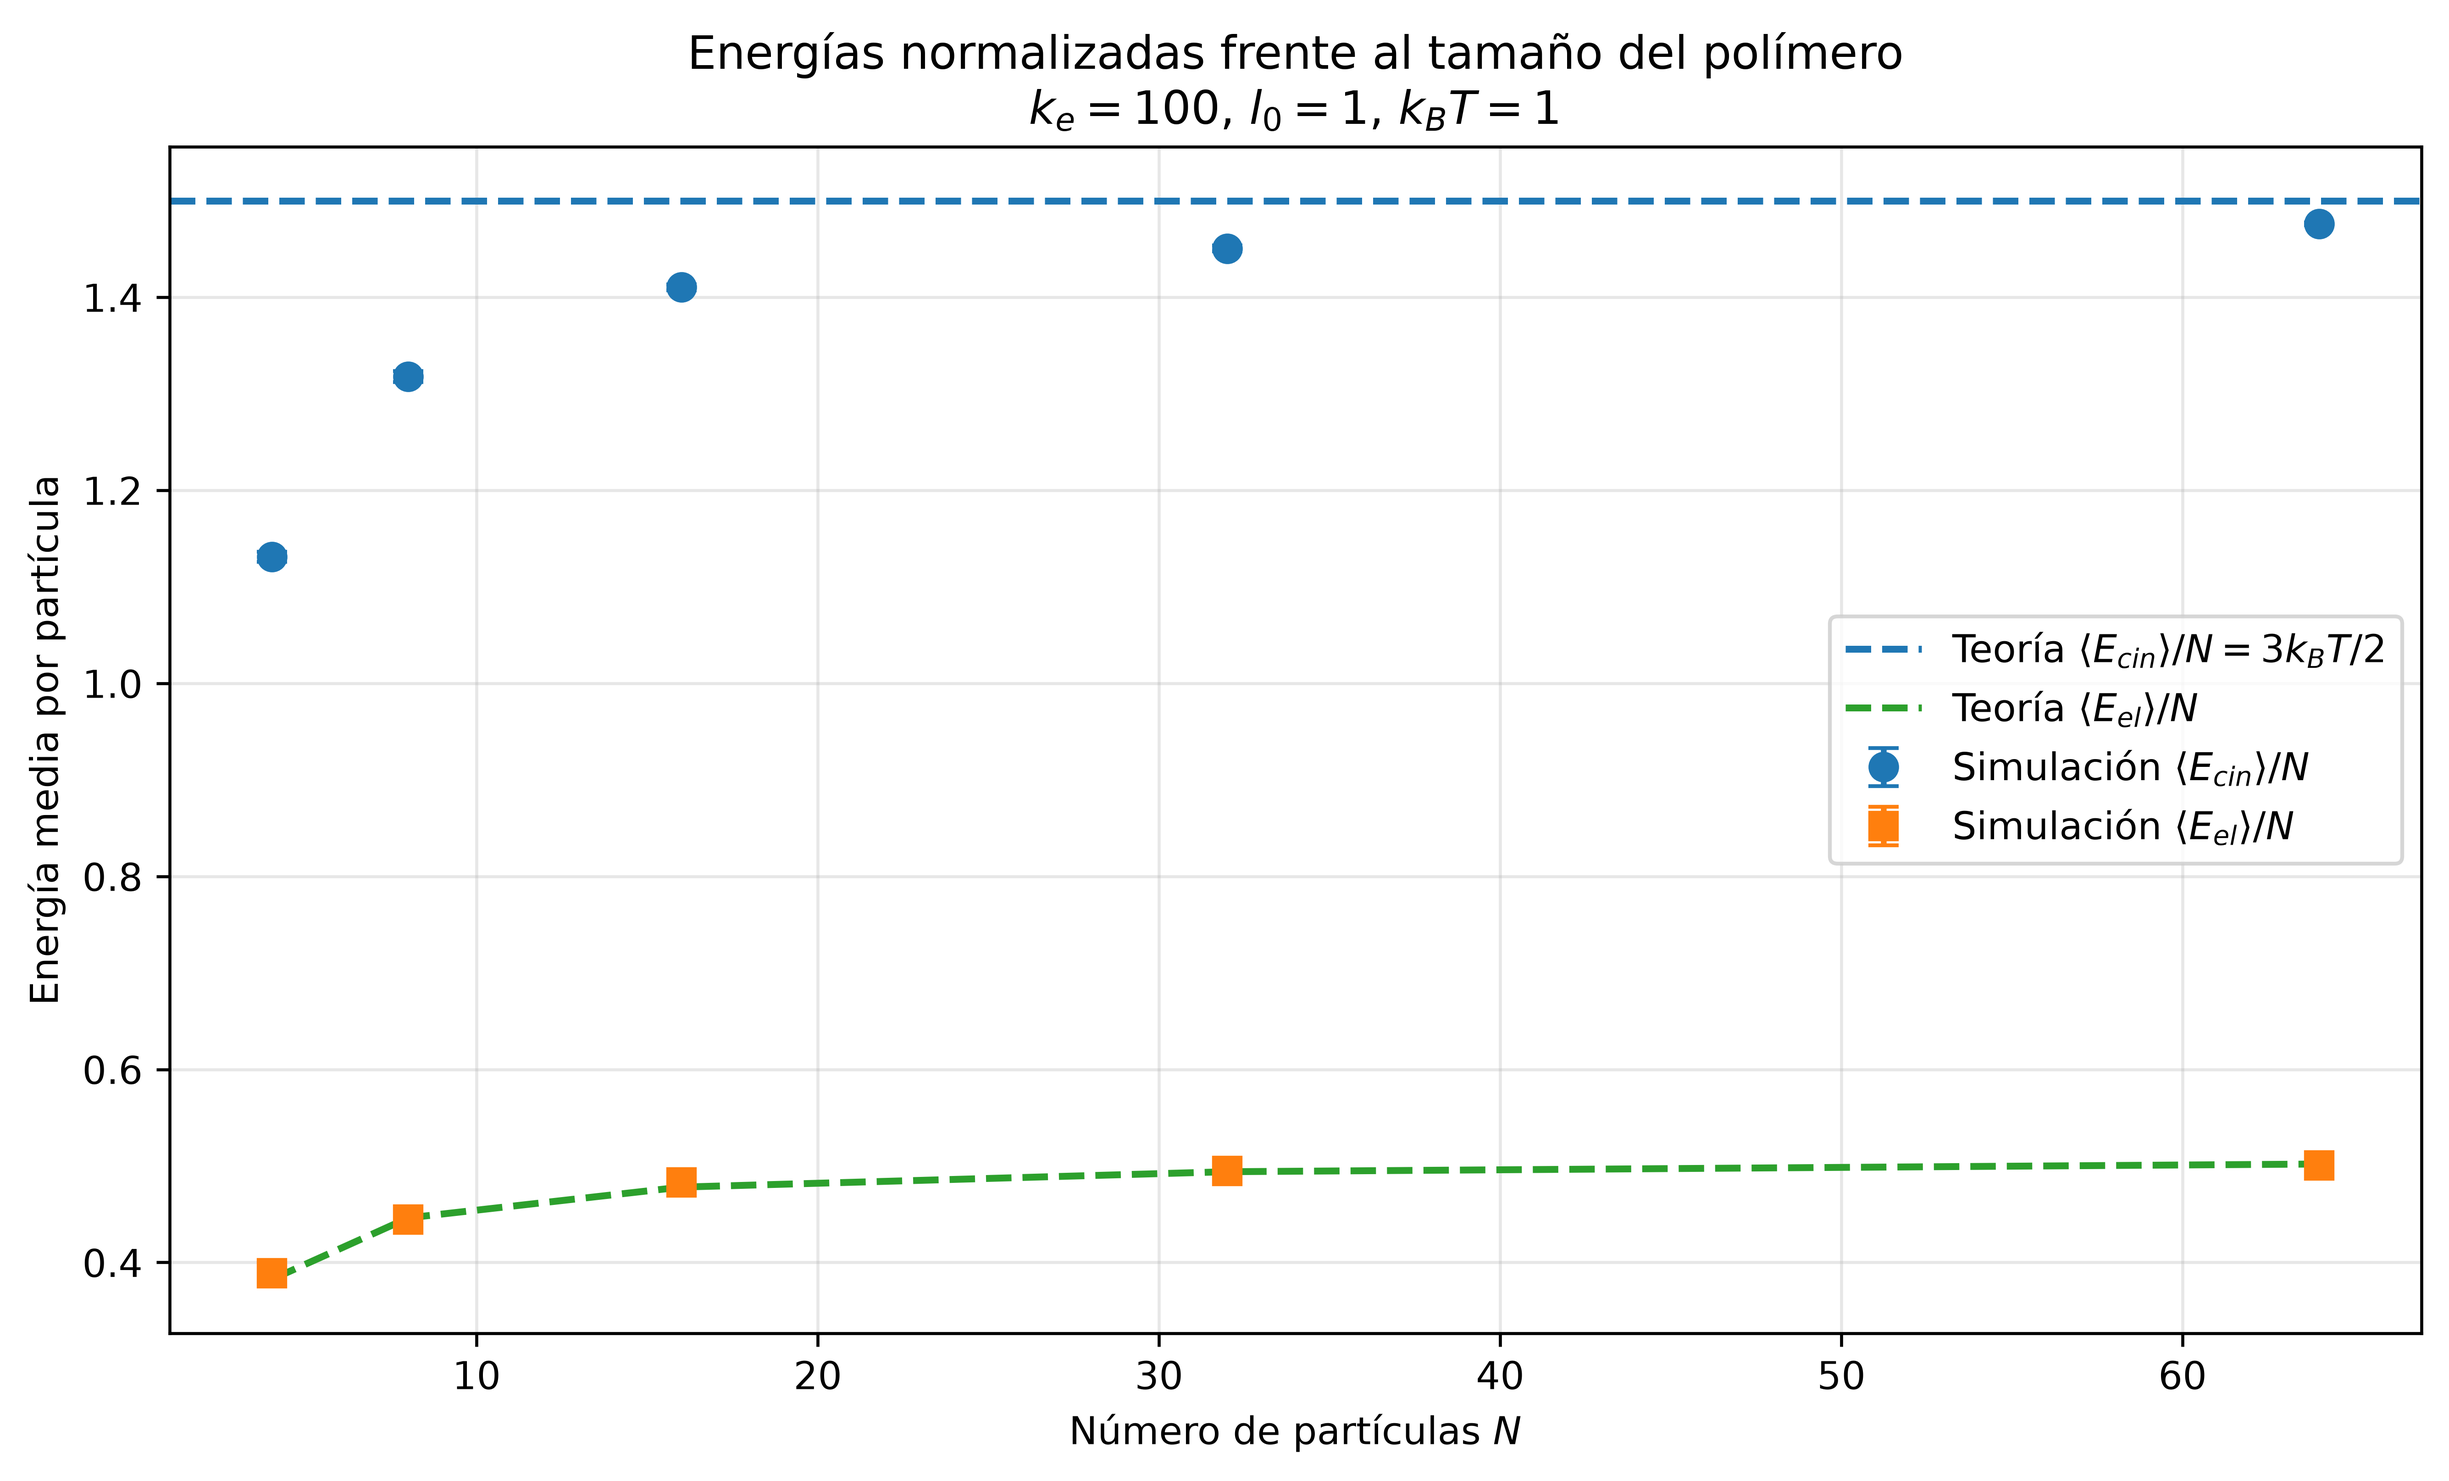
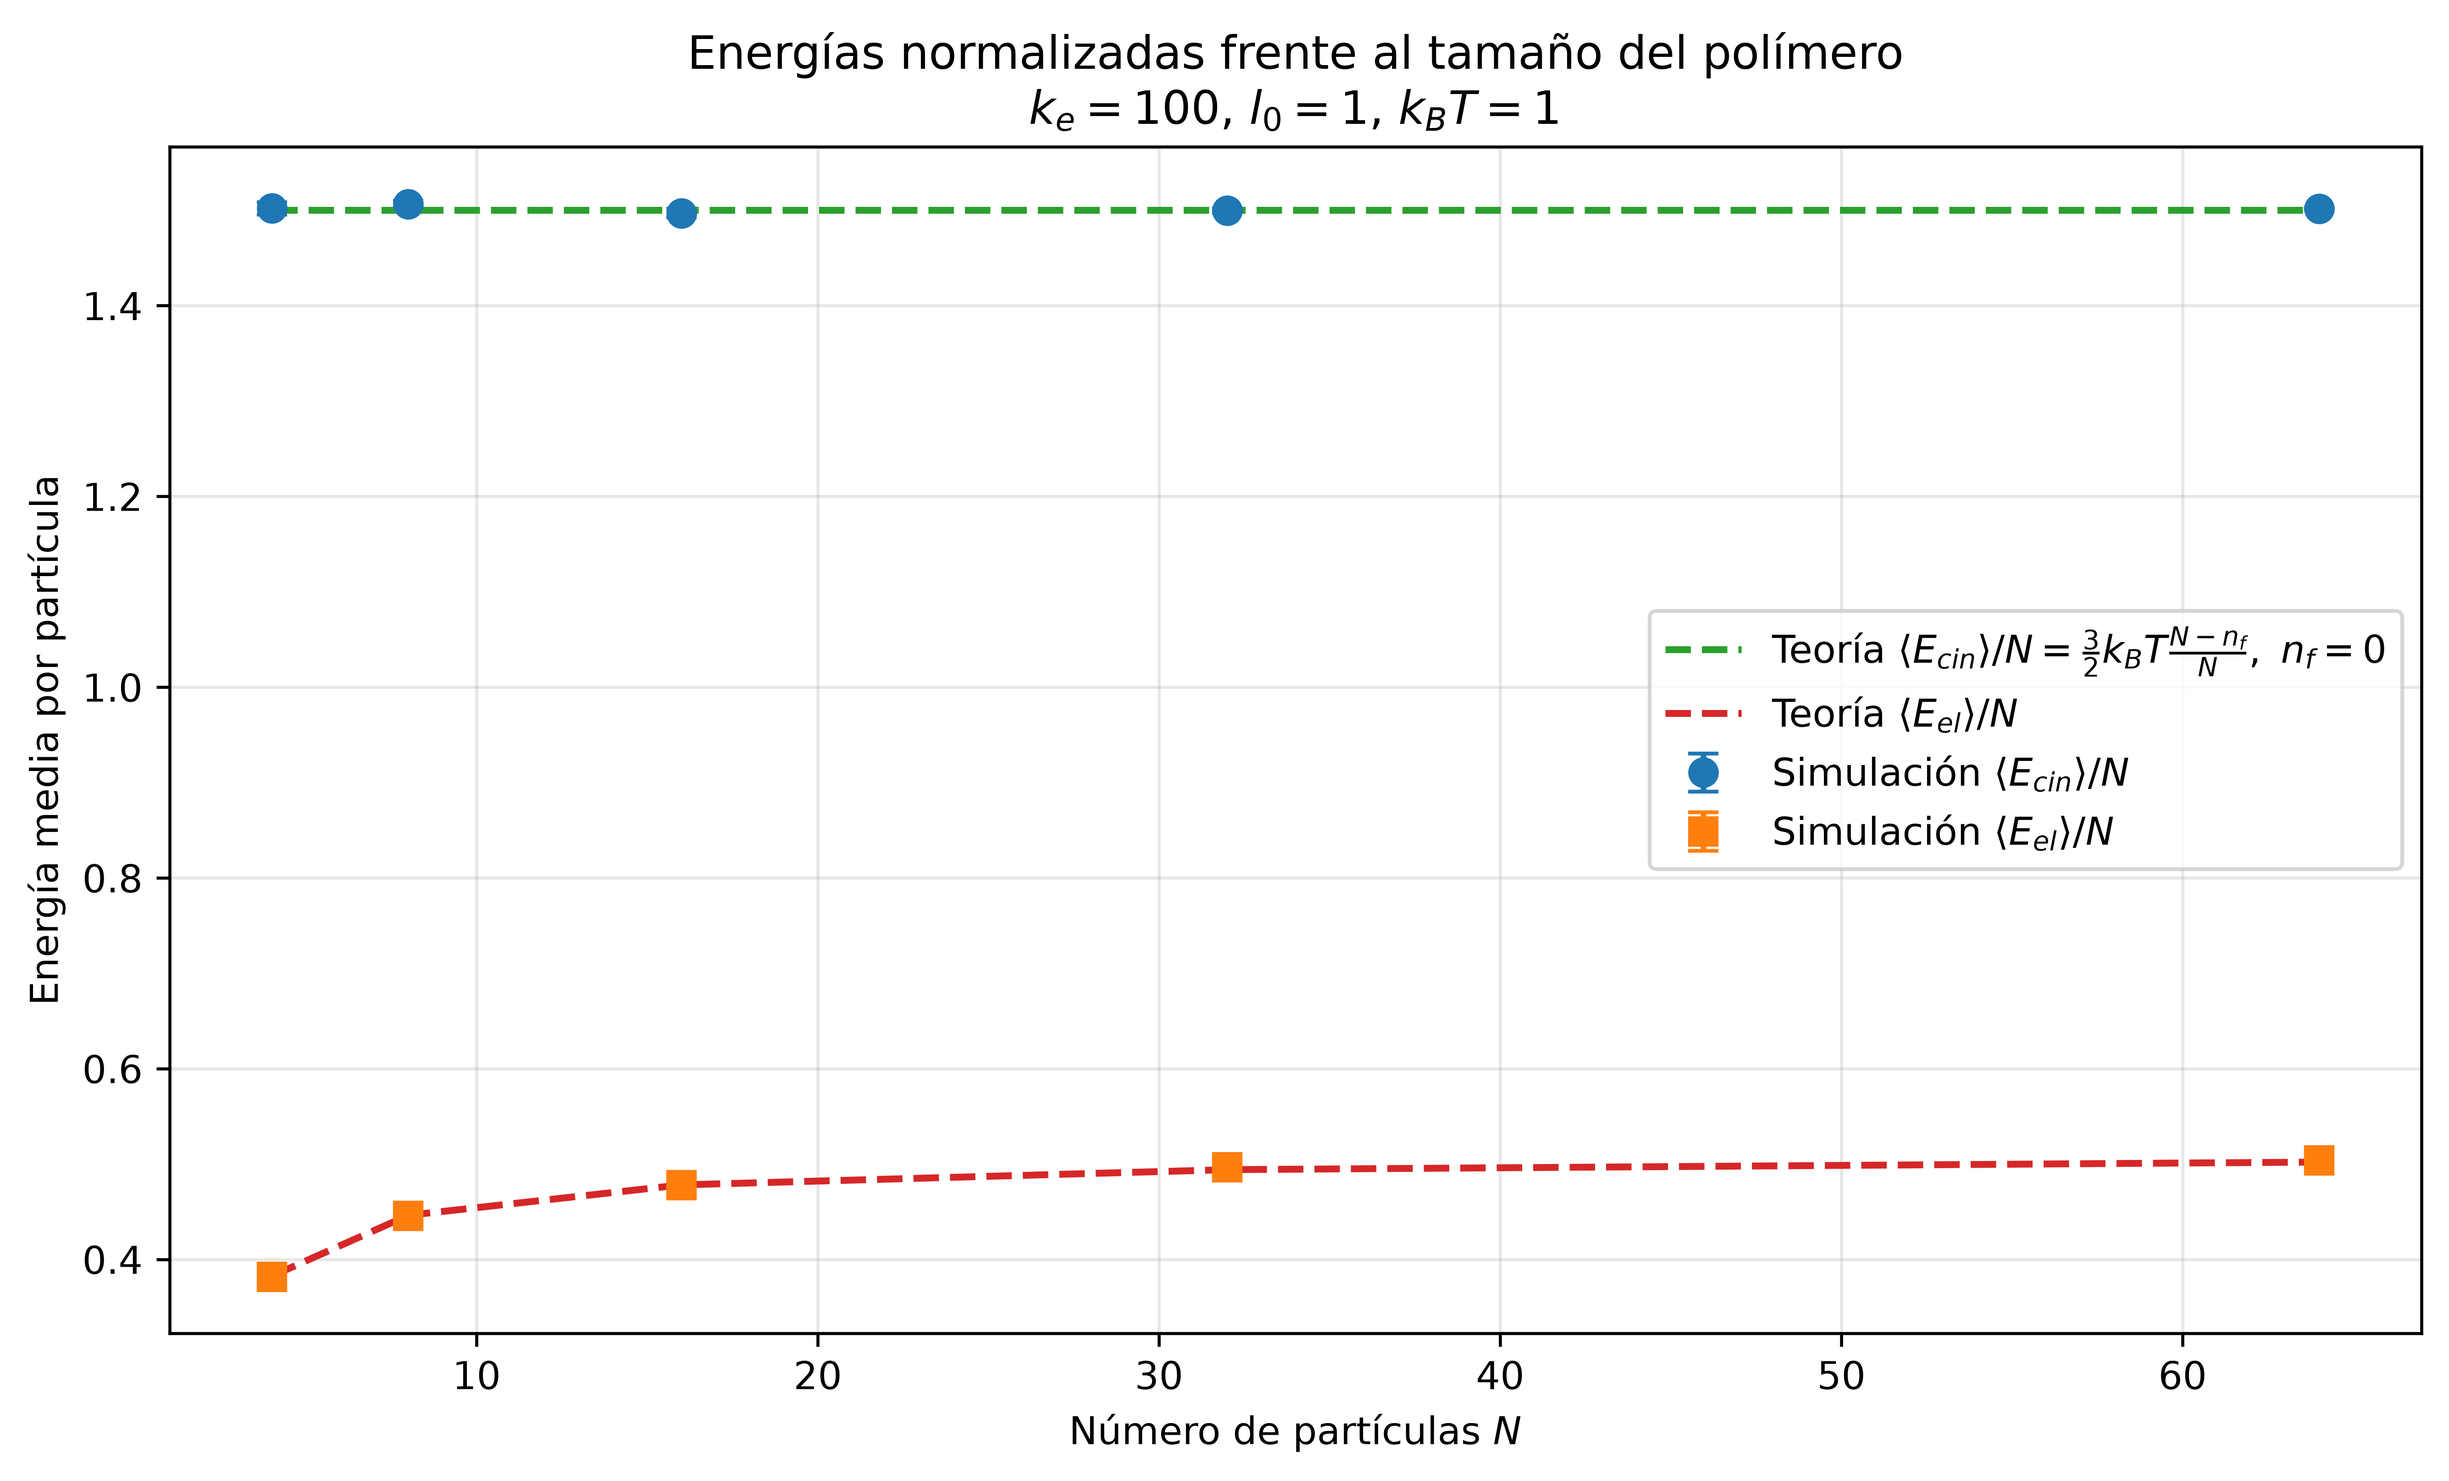
Mejoras en los analisis

diff --git a/analysis/polymer_size_sweep.py b/analysis/polymer_size_sweep.py
@@ -370,6 +370,19 @@ original_config = (
     config_file.read_text()
 )
 
+original_config_values = parse_key_values(
+    original_config
+)
+first_end = original_config_values.get(
+    "firstEnd"
+)
+
+if first_end not in {"fixed", "free"}:
+    raise RuntimeError(
+        "El parámetro firstEnd en config/simulation.txt "
+        "debe ser 'fixed' o 'free'."
+    )
+
 
 base_seed = secrets.randbelow(
     (2 ** 32 - 1)
@@ -418,6 +431,7 @@ try:
             f"kBT={kBT:.12g}\n"
             f"eta={eta:.12g}\n"
             f"h={dt:.12g}\n"
+            f"firstEnd={first_end}\n"
             f"totalTime={total_time:.12g}\n"
             f"minThermalizationTime="
             f"{min_thermalization_time:.12g}\n"
@@ -558,7 +572,7 @@ try:
 
         kinetic_theory = (
             1.5
-            * N
+            * (N - int(first_end == "fixed"))
             * kBT
         )
 
@@ -1070,6 +1084,13 @@ kinetic_per_particle_sem = np.array([
     for result in results
 ])
 
+kinetic_per_particle_theory = np.array([
+    result[
+        "kinetic_per_particle_theory"
+    ]
+    for result in results
+])
+
 
 elastic_per_particle = np.array([
     result[
@@ -1122,7 +1143,7 @@ fig = plt.figure(
 
 for result in results:
 
-    plt.plot(
+    kinetic_line, = plt.plot(
         result[
             "time"
         ],
@@ -1132,22 +1153,20 @@ for result in results:
         linewidth=1.2,
         label=(
             f"$N={result['N']}$: "
-            f"{result['kinetic_per_particle']:.3f}"
+            f"exp={result['kinetic_per_particle']:.3f}, "
+            f"teo={result['kinetic_per_particle_theory']:.3f}"
         )
     )
 
-
-plt.axhline(
-    1.5 * kBT,
-    linestyle="--",
-    linewidth=1.8,
-    label=(
-        "Teoría: "
-        r"$\langle E_{cin}\rangle/N"
-        r"=3k_BT/2"
-        f"={1.5*kBT:.3f}$"
+    plt.axhline(
+        result[
+            "kinetic_per_particle_theory"
+        ],
+        color=kinetic_line.get_color(),
+        linestyle="--",
+        linewidth=0.9,
+        alpha=0.7
     )
-)
 
 
 plt.xlabel(
@@ -1310,14 +1329,16 @@ plt.errorbar(
 # La teoría sí se representa
 # mediante líneas.
 
-plt.axhline(
-    1.5 * kBT,
+plt.plot(
+    N_plot,
+    kinetic_per_particle_theory,
     linestyle="--",
     linewidth=1.8,
     label=(
         r"Teoría "
         r"$\langle E_{cin}\rangle/N"
-        r"=3k_BT/2$"
+        r"=\frac{3}{2}k_BT\frac{N-n_f}{N},\ "
+        rf"n_f={int(first_end == 'fixed')}$"
     )
 )
 
@@ -1529,7 +1550,8 @@ print(
 
 print(
     f"  <Ecin>/N = "
-    f"{1.5*kBT:.6f}"
+    f"3kBT(N-{int(first_end == 'fixed')})/(2N), "
+    f"firstEnd={first_end}"
 )
 
 print(

diff --git a/analysis/polymer_analysis.py b/analysis/polymer_analysis.py
@@ -251,11 +251,12 @@ mean_total = float(
 
 # Energía cinética:
 #
-# <Ecin> = 3 N kBT / 2
+# <Ecin> = 3 N_libres kBT / 2
 
+free_monomers = N - int(parameters.get("firstEnd", "fixed") == "fixed")
 kinetic_theory = (
     1.5
-    * N
+    * free_monomers
     * kBT
 )
 
@@ -610,7 +611,9 @@ number_animation_frames = min(
 
 animation_indices = np.unique(
     np.linspace(
-        0,
+        len(
+            coordinates
+        ) - max_animation_frames,
         len(
             coordinates
         ) - 1,
@@ -659,20 +662,24 @@ animation_coordinates = (
 # Conservamos las coordenadas del CSV para que
 # el extremo fijo permanezca visualmente en el origen. (mejor para representar el extremo fijo)
 
-maximum_coordinate = float(
-    np.max(
-        np.abs(
-            animation_coordinates
-        )
-    )
+coordinate_min = np.min(
+    animation_coordinates,
+    axis=(0, 1)
 )
 
-
-axis_limit = max(
-    1.0,
-    1.10
-    * maximum_coordinate
+coordinate_max = np.max(
+    animation_coordinates,
+    axis=(0, 1)
 )
+
+coordinate_span = np.maximum(
+    coordinate_max - coordinate_min,
+    1.0
+)
+
+axis_padding = 0.05 * coordinate_span
+axis_min = coordinate_min - axis_padding
+axis_max = coordinate_max + axis_padding
 
 
 fig_animation = plt.figure(
@@ -693,7 +700,7 @@ polymer_line, = ax_animation.plot(
     [],
     [],
     [],
-    marker="o",
+    marker=".",
     linewidth=1.5
 )
 
@@ -707,31 +714,26 @@ time_text = ax_animation.text2D(
 
 
 ax_animation.set_xlim(
-    -axis_limit,
-    axis_limit
+    axis_min[0],
+    axis_max[0]
 )
 
 
 ax_animation.set_ylim(
-    -axis_limit,
-    axis_limit
+    axis_min[1],
+    axis_max[1]
 )
 
 
 ax_animation.set_zlim(
-    -axis_limit,
-    axis_limit
+    axis_min[2],
+    axis_max[2]
 )
 
 
 ax_animation.set_box_aspect(
-    (
-        1,
-        1,
-        1
-    )
+    (1,1,1)
 )
-
 
 ax_animation.set_xlabel(
     "$x$"

diff --git a/src/polymer.cpp b/src/polymer.cpp
@@ -140,9 +140,10 @@ double polymerElasticEnergy(
 
         extension =
             distance - polymer.equilibriumLength;
-
+        
         energy +=
-            0.5 * polymer.springConstant * extension * extension;
+            0.5 * polymer.springConstant * extension * extension; // Energía elástica del resorte (Armonico)
+
     }
 
     return energy;
